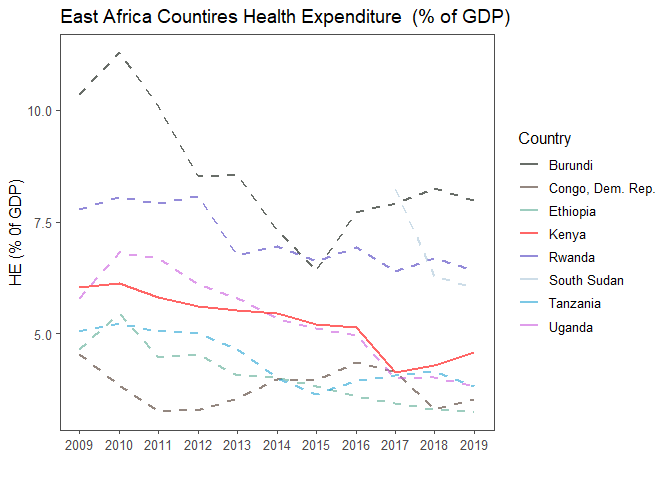
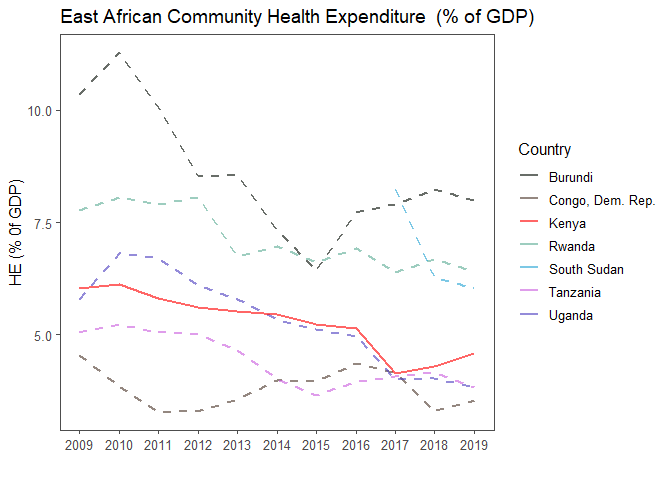
Ethiopia not part of EAC

diff --git a/HE-GDP.md b/HE-GDP.md
@@ -36,13 +36,12 @@ plot1 <- ggplot(ea_gdp_19,
                                "Rwanda"= "#5cac94", 
                                "Congo, Dem. Rep."= "#5cac94", 
                                "Burundi"= "#5cac94",
-                               "South Sudan"= "#5cac94",
-                               "Ethiopia"= "#5cac94"))+
+                               "South Sudan"= "#5cac94"))+
   theme_few()+
   theme(axis.text.x = element_text(angle = 45, hjust = 1))+
   geom_text(aes(label = paste(format(x2019, nsmall = 2), "%")), vjust = -0.2)+
   labs(title="Healthcare Expenditure as Percentage of GDP", 
-        subtitle ="In 2019 in EastAfrican Countries")+
+        subtitle ="In 2019 in East African Community")+
   labs(x = "",
        y = "")
 ```
@@ -50,8 +49,8 @@ plot1 <- ggplot(ea_gdp_19,
 Health spending shows the importance of the health sector in the whole
 economy and indicates the societal priority which health is given
 measured in monetary terms (WHO). This analysis focuses how Kenya
-compares to its neighbours in the East Africa Community. The latest data
-entry is from 2019, while a look at a 10 year trend is assesd…….
+compares to its neighbours in the East African Community. The latest
+data entry is from 2019, while a look at a 10 year trend is assesd…….
 
 ``` r
 plot1
@@ -66,13 +65,13 @@ from 4.6 % in 2000 to 6.1 % in 2010.
 
 ``` r
 #Data Visualization
-myColours2 = c("#040c04", "#4d372c","#5cac94","#FF0000","#4d3ec0","#acc6d8",
-               "#24a4d4", "#ca5cdd")
+myColours2 = c("#040c04", "#4d372c","#FF0000","#5cac94",
+               "#24a4d4", "#ca5cdd","#4d3ec0")
 plot2 <- ea_gdp2%>%
   mutate(isKenya = (country_name == "Kenya"))%>%
   ggplot(aes(x=years, y=gdp, color=country_name))+
   geom_line( aes (linetype = isKenya), size =1, alpha = 0.6)+
-  labs (title = "East Africa Countires Health Expenditure  (% of GDP)",
+  labs (title = "East African Community Health Expenditure  (% of GDP)",
         y = "HE (% 0f GDP)",
         x = "",
         color = "Country")+
